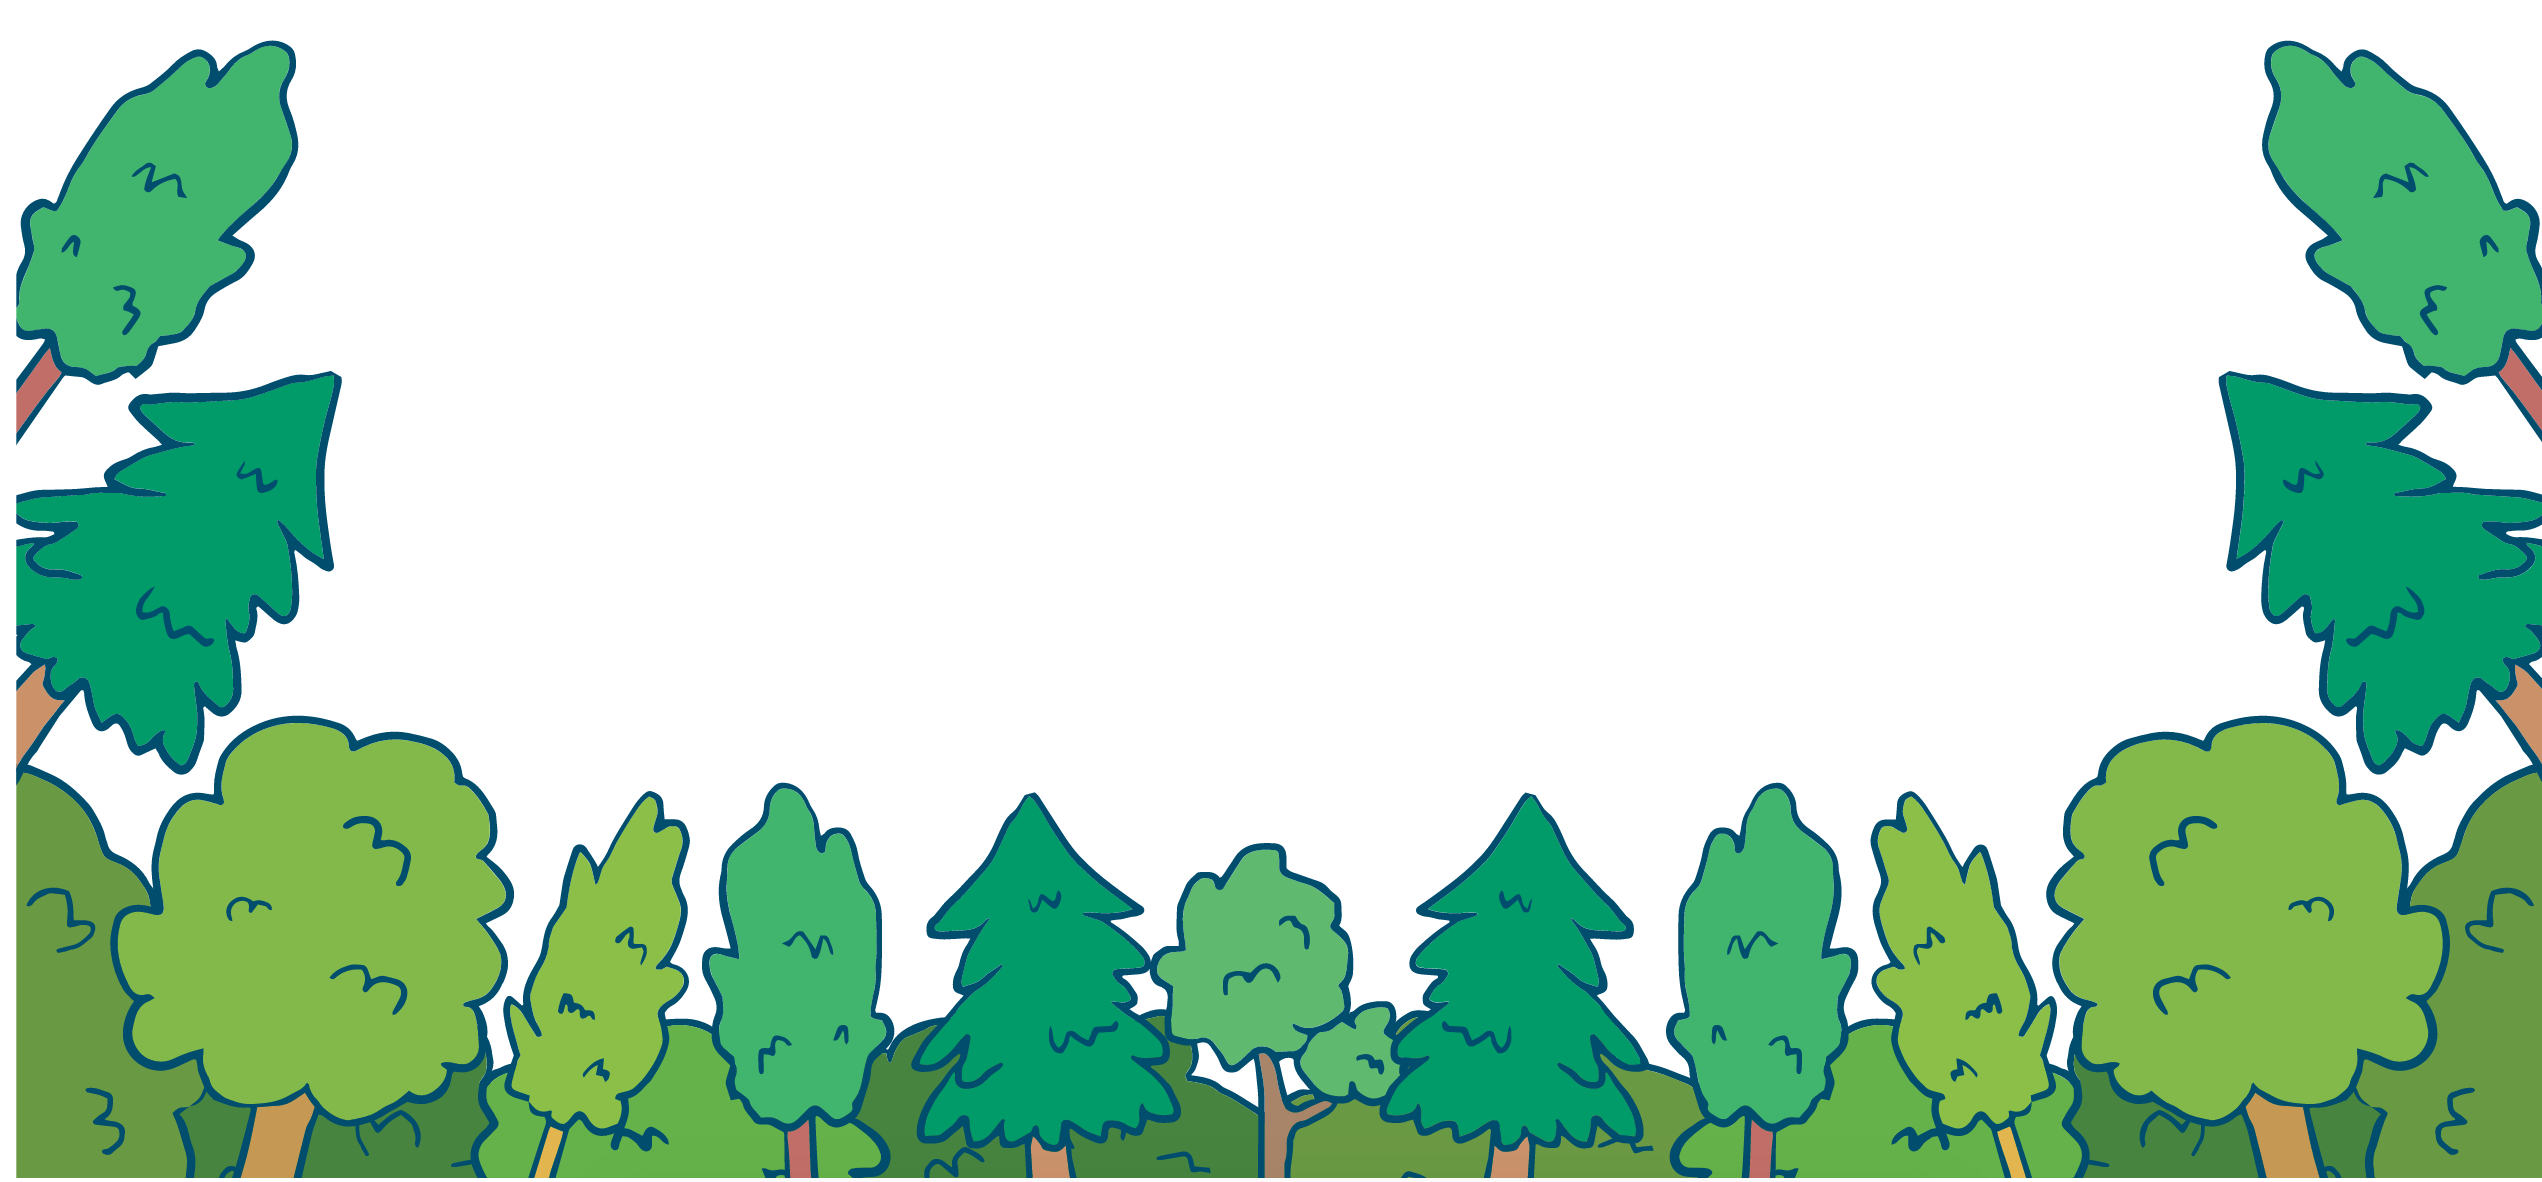
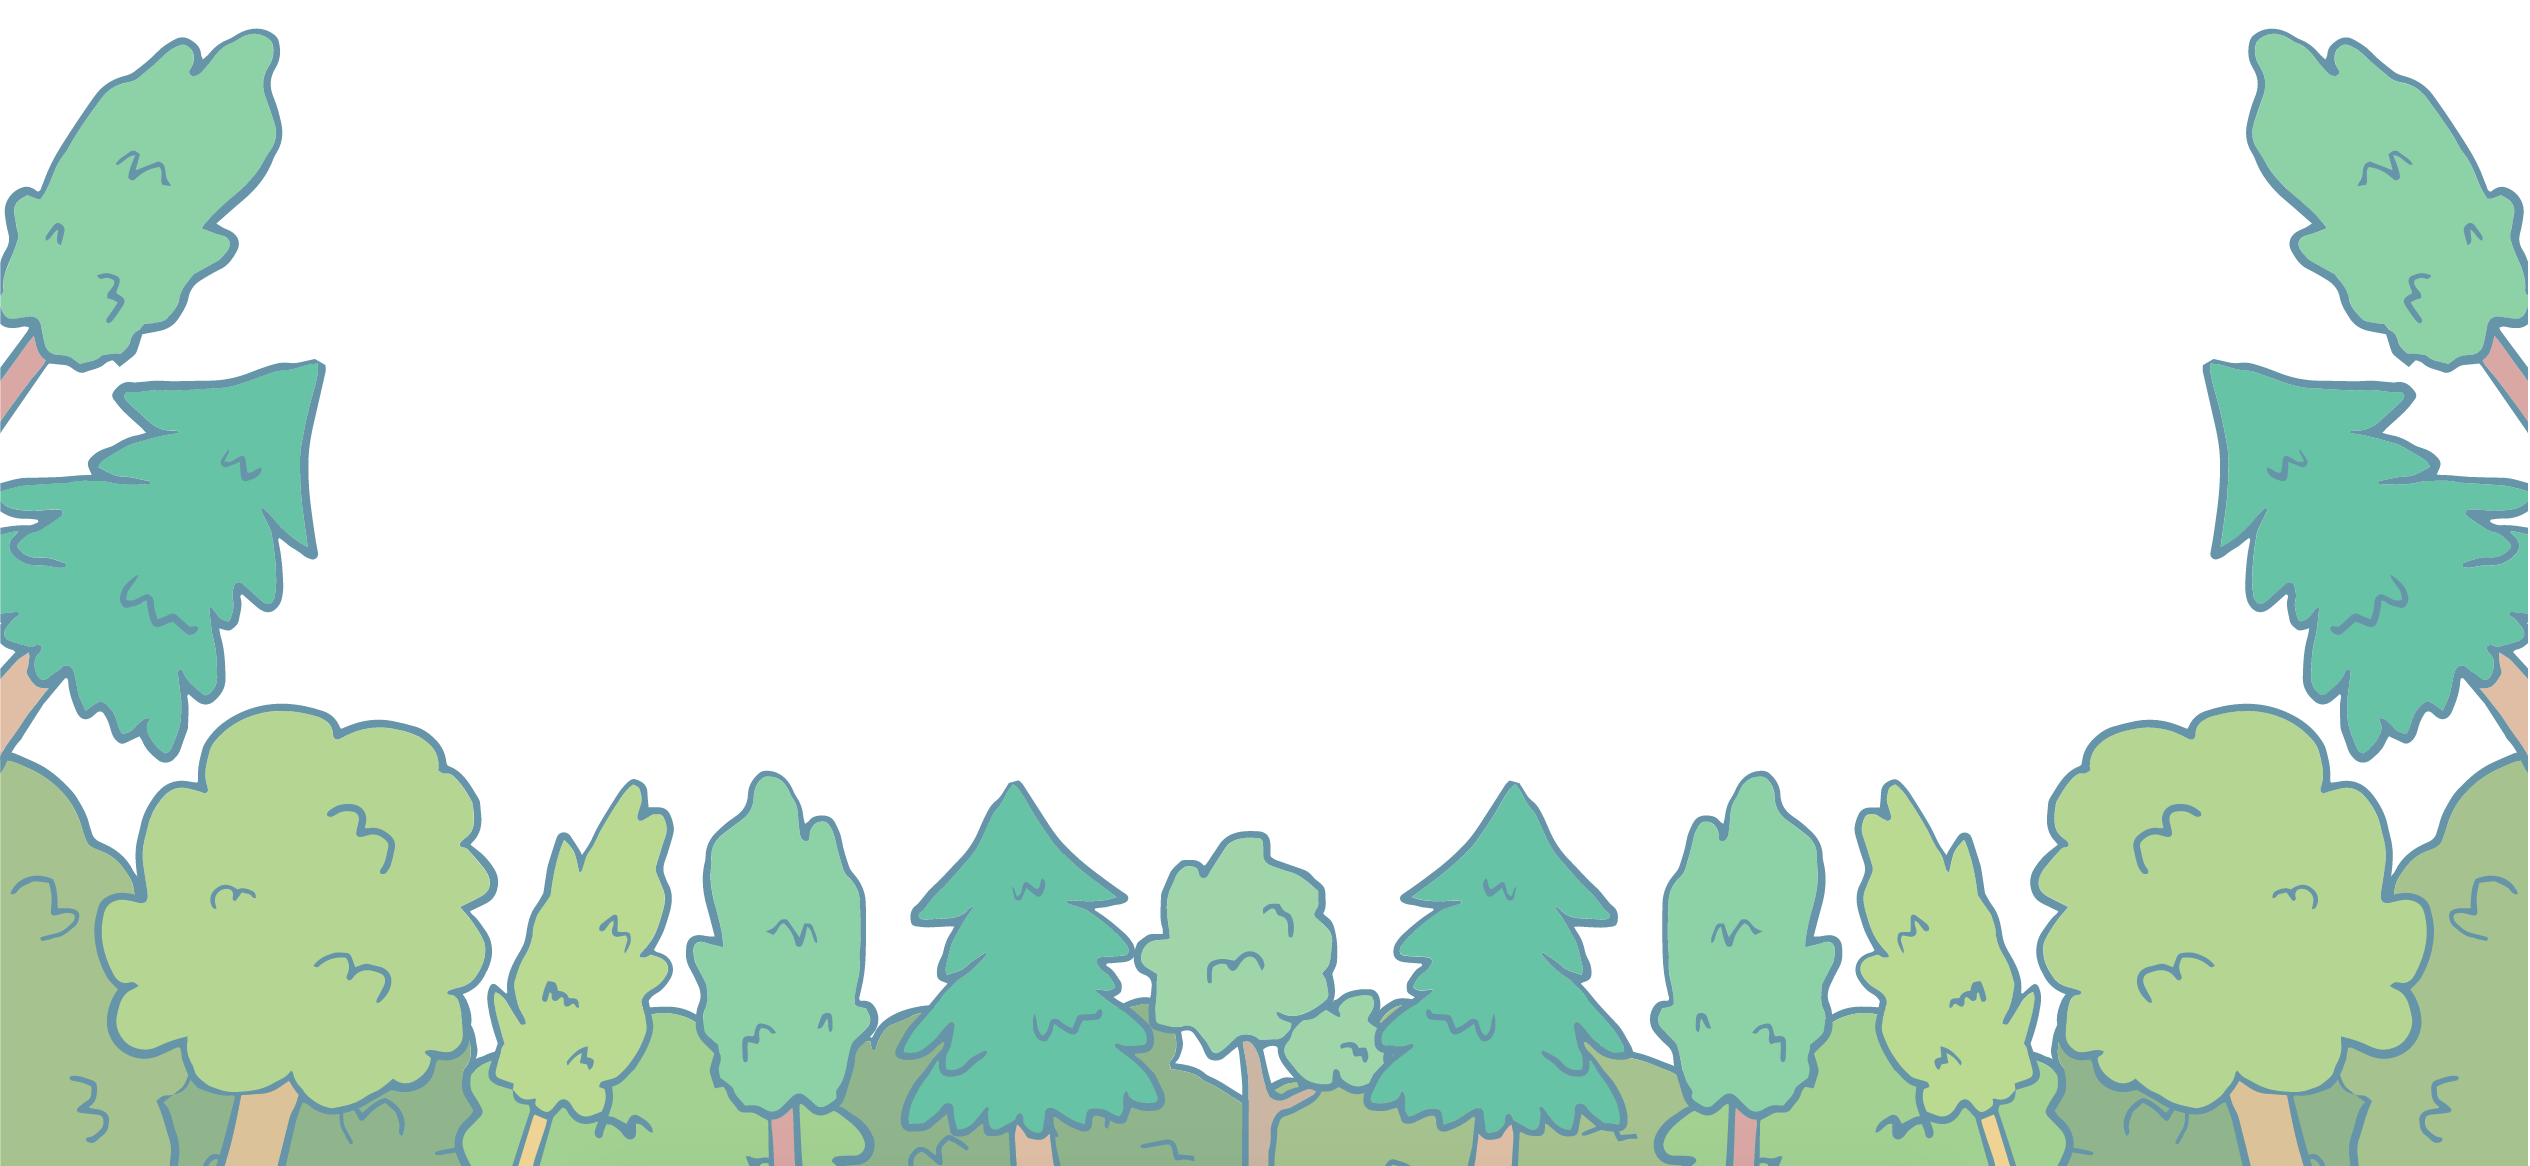
changed backgrobd

diff --git a/src/Login/Login.css b/src/Login/Login.css
@@ -5,8 +5,8 @@
     background-repeat: no-repeat;
     height: 831px;
     background-position: center center;
-    opacity: 0.6;
 }
+
 
 .login {
     padding: 17%;
